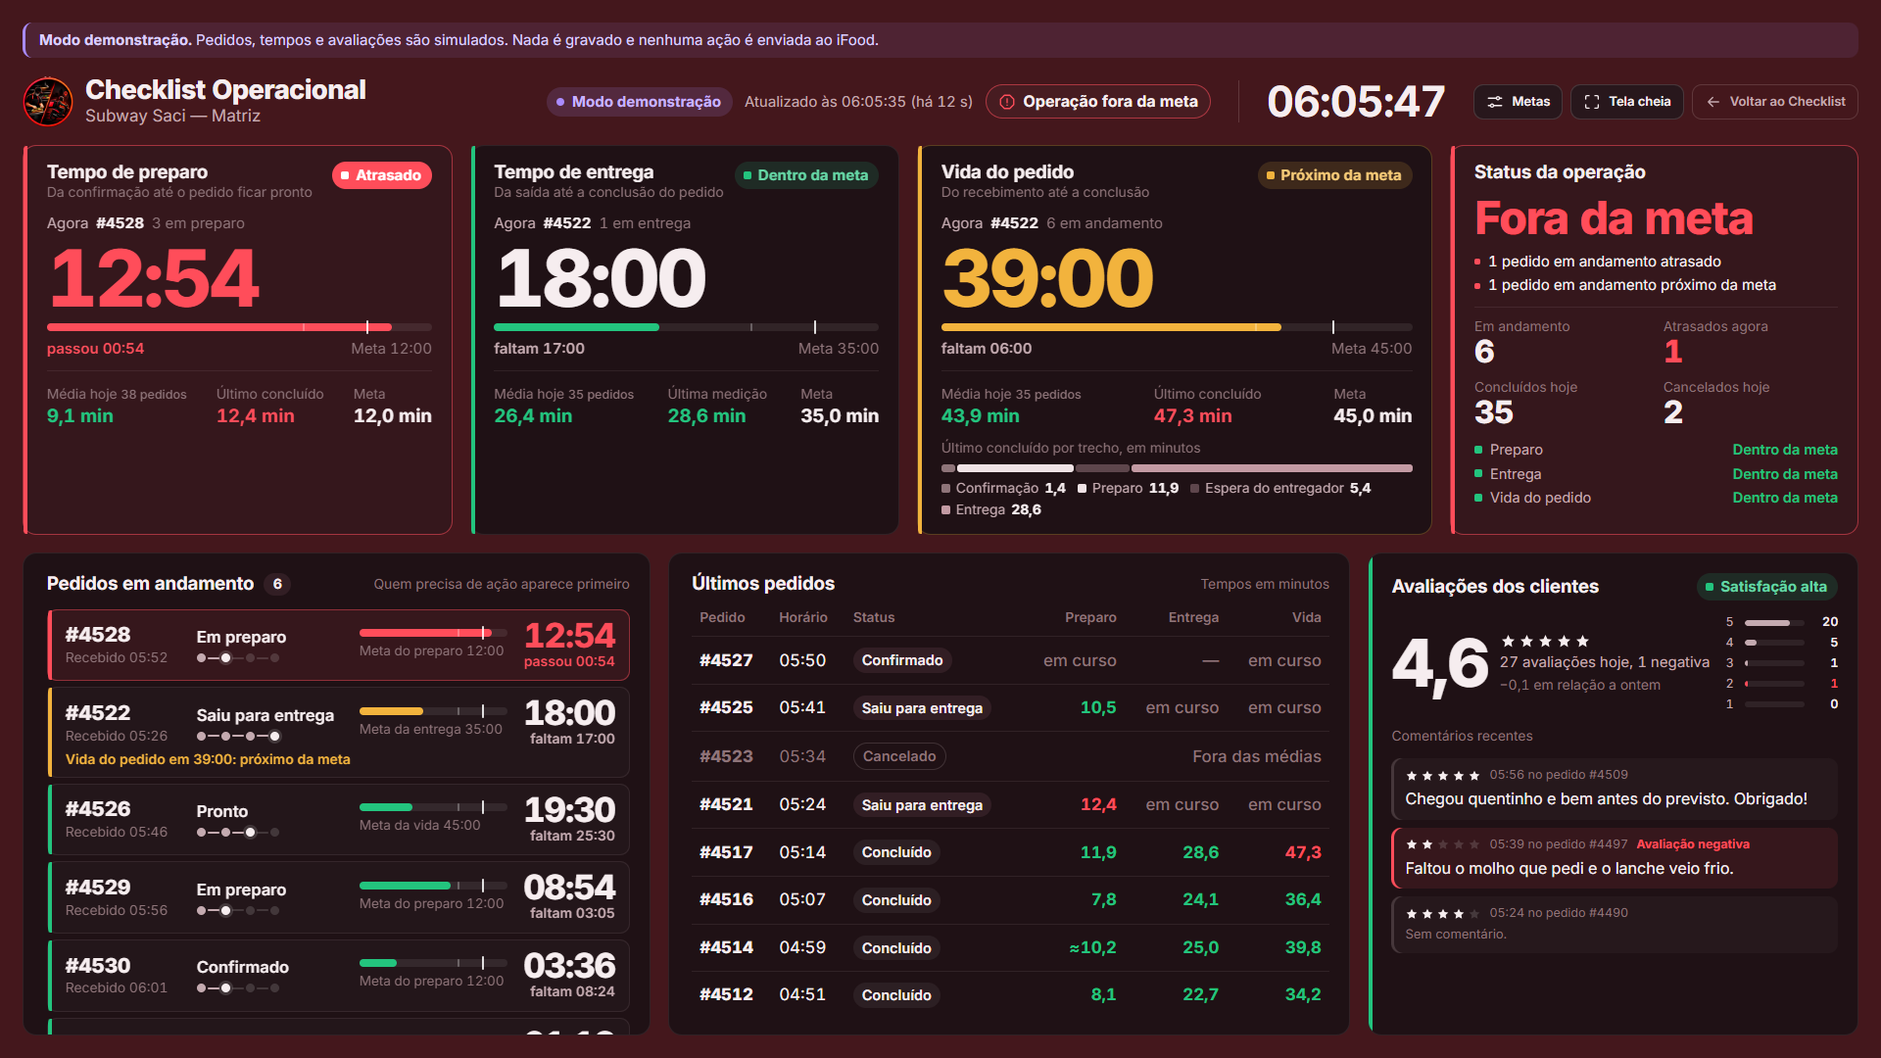
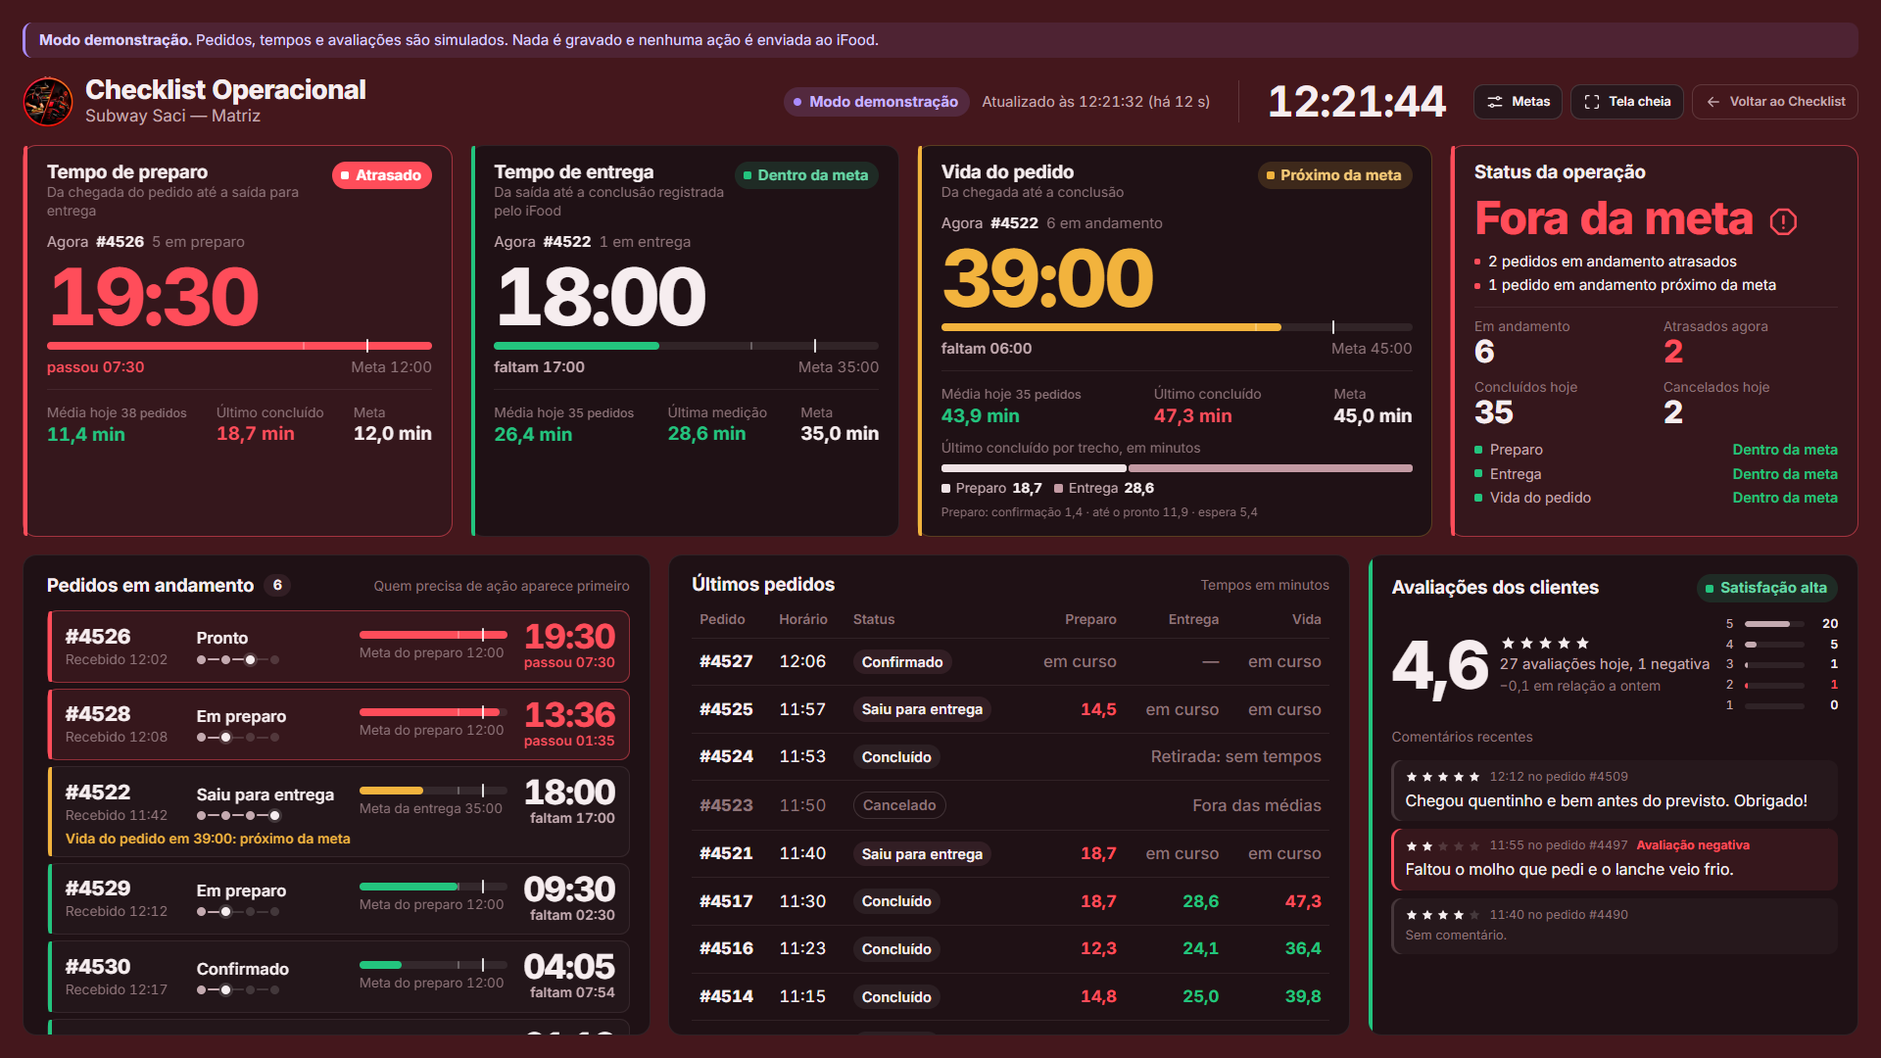
docs(checklist): relatório de entrega e capturas atualizados após o rebase
Numeração 127/128, régua "Etapa 2" da main, módulo checklist_operacional, resultados de teste no código rebaseado
(checkout LF), checklist de homologação das migrations e ordem de publicação. Capturas regeradas a partir da main atual.

diff --git a/docs/checklist-operacional-2-entrega.md b/docs/checklist-operacional-2-entrega.md
@@ -1,89 +1,92 @@
 # Checklist Operacional 2.0 — relatório de entrega
 
-> Branch `feat/checklist-operacional-2` (base `main` @ `8d32196`). **Nada foi commitado, nenhuma migration foi
-> aplicada em ambiente algum, nenhum merge ou deploy foi feito.** Auditoria e plano: `checklist-operacional-2-auditoria.md`.
-> Capturas: `docs/checklist-operacional-2/`.
+> Branch `feat/checklist-operacional-2`, rebaseada sobre a `main` atual (`origin/main` @ `eeeb1c7`, PR #52). **Nenhuma
+> migration foi aplicada em ambiente algum; nenhum merge ou deploy foi feito.** Auditoria e plano: `checklist-operacional-2-auditoria.md`.
+> Capturas: `docs/checklist-operacional-2/` (dados de demonstração e payload sintético; `04-tv-tom-verde-referencia` força o
+> nível só para mostrar a cor).
 
 ## 1. O que foi entregue
 
 | Fase | Entrega | Onde |
 |---|---|---|
-| 2 — Metas | Tabela por unidade com `versao`; histórico append-only (quem, quando, antes/depois, suporte); função atômica `checklist_metas_salvar` (compara a versão; conflito não grava nada). `GET/PUT /metas`, `GET /metas/historico`. Metas embutidas no `/resumo` (a TV lê sem rota nova). Evento `checklist_metas.atualizadas` só no tópico da unidade → TV, Tablet e Dashboard recarregam; reconexão/polling reconciliam. Diálogo grava no servidor, trata 409 (carrega o valor atual e pede revisão), falha mantém a última configuração válida; sem leitura do servidor o salvar fica bloqueado. | migration 120, `checklistOperacional.metas.js`, `service`/`controller`/`routes`, `checklistOperacional.js`, `checklistOperacionalDados.js`, `checklistOperacionalVisual.js` |
-| 3 — Fundo dinâmico | Fundo da área operacional (TV e Tablet) pelo status agregado **já existente** (`derivarStatusOperacao`: pior entre médias do dia, pedidos em andamento e alertas). Piora imediata; melhora só depois de 5 s estável (sem piscar). Selo no cabeçalho com texto + ícone. Transição de cor de 900 ms; sem transição com movimento reduzido. Cards e textos mantêm as superfícies e o contraste originais. | `checklistOperacionalFundo.js`, CSS |
-| 4 — Dashboard | Terceira opção na seleção. Filtros: unidade (seletor global), hoje/ontem/semana/mês/personalizado (≤ 92 dias), etapa. KPIs, evolução diária, pedidos por dia, demanda e atraso por horário, dia da semana, distribuição por status, desempenho por etapa, comparativo com período anterior equivalente (cortado no mesmo horário quando o período termina hoje), atrasos com evidências, metas aplicáveis, cobertura/qualidade, definições. Todo cálculo no backend. | `checklistOperacional.indicadores.js`, `.periodos.js`, `checklistOperacionalDashboard*.js`, `checklistOperacionalGraficos.js`, migration 121 |
-| 5 — Inteligência | 7 regras determinísticas com limiares e amostra mínima explícitos (concentração por horário, dias críticos, piora/melhora, preparo anormal, concentração por etapa, reincidência, desempenho contra a meta). Cada análise: fato, indicador+período, referência, ocorrências, evidências (pedidos/dias/horas), hipótese marcada como não comprovada, recomendação. Regras sem dado suficiente são listadas como "não avaliadas". Tool só-leitura `consultar_checklist_operacional` no Agente Crescer, com instrução para não estimar nem atribuir causa. | `checklistOperacional.analises.js`, `agente/tools/checklistOperacional.tool.js` |
-| 6 — Relatórios | PDF (impressão do navegador, mesmos componentes e SVG da tela) e Excel (backend, `xlsx`), ambos do mesmo payload e do filtro que gerou os números exibidos; escolha de seções (11). | `checklistOperacionalRelatorio.js`, `checklistOperacional.exportar.js` |
+| 2 — Metas | Tabela por unidade com `versao`; histórico append-only (quem, quando, antes/depois, suporte); função atômica `checklist_metas_salvar` (compara a versão; conflito não grava nada). `GET/PUT /metas`, `GET /metas/historico`. Metas embutidas no `/resumo` (a TV lê sem rota nova). Evento `checklist_metas.atualizadas` só no tópico da unidade → TV, Tablet e Dashboard recarregam; reconexão/polling reconciliam. Diálogo grava no servidor, trata 409 (carrega o valor atual e pede revisão), falha mantém a última configuração válida; sem ler as metas do servidor o salvar fica bloqueado. A referência p75 da `main` continua só preenchendo o formulário. | migration **127**, `checklistOperacional.metas.js`, `service`/`controller`/`routes`, `checklistOperacional.js`, `checklistOperacionalDados.js`, `checklistOperacionalVisual.js` |
+| 3 — Fundo dinâmico | Fundo da área operacional (TV e Tablet) pelo status agregado **já existente** (`derivarStatusOperacao`: pior entre médias do dia, pedidos em andamento e alertas). Piora imediata; melhora só depois de 5 s estável. Cor sólida na própria raiz (custo de pintura medido em Chrome real), transição de 900 ms, desligada com movimento reduzido. O status também aparece em texto (veredito do card "Status da operação") e ícone ao lado dele — sem altura nova (TV 1280×720 sem rolagem). | `checklistOperacionalFundo.js`, CSS |
+| 4 — Dashboard | Terceira opção na seleção. Filtros: unidade (seletor global), hoje/ontem/semana/mês/personalizado (≤ 92 dias), etapa. KPIs, evolução diária, pedidos por dia, demanda e atraso por horário, dia da semana, distribuição por status, desempenho por etapa, comparativo com o período anterior equivalente (cortado no mesmo horário quando o período termina hoje), atrasos com evidências, metas aplicáveis, cobertura/qualidade, definições. Mesmas medições do resumo ao vivo — régua **"Etapa 2" da `main`**: só DELIVERY; preparo = chegada (PLC) → despacho (DSP); entrega = DSP → conclusão registrada pelo iFood; vida = PLC → conclusão. | `checklistOperacional.indicadores.js`, `.periodos.js`, `checklistOperacionalDashboard*.js`, `checklistOperacionalGraficos.js`, migration **128** |
+| 5 — Inteligência | 7 regras determinísticas, com limiares e amostra mínima explícitos (concentração por horário, dias críticos, piora/melhora, preparo anormal, concentração por etapa, reincidência, desempenho contra a meta). Cada análise: fato, indicador+período, referência, ocorrências, evidências, hipótese marcada como não comprovada, recomendação. Regras sem dado suficiente aparecem como "não avaliadas". Tool só-leitura `consultar_checklist_operacional` no Agente Crescer (módulo `checklist_operacional`; aceita `ifood` na transição, a mesma régua do gate da API). | `checklistOperacional.analises.js`, `agente/tools/checklistOperacional.tool.js` |
+| 6 — Relatórios | PDF (impressão do navegador, mesmos componentes e SVG da tela) e Excel (backend, `xlsx`), do mesmo payload e do filtro que gerou os números exibidos; escolha de 11 seções. | `checklistOperacionalRelatorio.js`, `checklistOperacional.exportar.js` |
 
-**Regra metas × pedidos (documentada na tela):** a tela ao vivo reavalia na hora os pedidos em andamento pela meta
-nova. O Dashboard avalia cada pedido pela meta vigente **no recebimento** — mudar a meta nunca reescreve o passado.
-Pedido recebido antes da primeira meta salva fica "sem meta vigente" (fora do % dentro da meta, contado à parte).
+**Metas × pedidos:** a tela ao vivo reavalia na hora os pedidos em andamento pela meta nova. O Dashboard avalia cada pedido
+pela meta vigente **no recebimento** — mudar a meta nunca reescreve o passado. Pedido recebido antes da primeira meta salva
+fica "sem meta vigente" (fora do % dentro da meta, contado à parte).
 
-## 2. Migrations (não aplicadas)
+## 2. Migrations (NÃO aplicadas — homologar em PostgreSQL real)
+
+A `main` já ocupa 120–126 (Financeiro, módulo `checklist_operacional`, conexões iFood). As desta entrega são as próximas livres:
 
 | Arquivo | Conteúdo | Como aplicar |
 |---|---|---|
-| `120_checklist_metas.sql` | 2 tabelas + 4 funções; RLS sem policy; anon/authenticated sem privilégio; service_role só `select` + `execute` da função de escrita. 100% aditiva. | Transação única (`lock_timeout` 5 s). Rollback: `120_rollback.sql` (apaga o histórico de metas — exportar antes). |
-| `121_ifood_pedidos_indice_periodo.sql` | Índice `(organizacao_id, unidade_id, criado_em)` em `ifood_pedidos`. | `CONCURRENTLY`, **fora de transação** (o worker grava o tempo todo). Rollback: `121_rollback.sql`. |
+| `127_checklist_metas.sql` | 2 tabelas + 4 funções; RLS sem policy; anon/authenticated sem privilégio; service_role só `select` + `execute` da função de escrita. 100% aditiva. | Transação única (`lock_timeout` 5 s). Rollback: `127_rollback.sql` (apaga o histórico de metas — exportar antes). |
+| `128_ifood_pedidos_indice_periodo.sql` | Índice `(organizacao_id, unidade_id, criado_em)` em `ifood_pedidos`. | `CONCURRENTLY`, **fora de transação** (o worker grava o tempo todo). Rollback: `128_rollback.sql`. |
 
-Ordem segura: 120 e 121 (independentes) → deploy do backend → deploy do frontend. Sem a 120, o backend continua
-funcionando: o resumo mostra metas de exemplo marcadas como indisponíveis e o PUT responde 503 (`METAS_INDISPONIVEIS`).
+Sem a 127 o backend continua funcionando: o resumo mostra metas de exemplo marcadas como indisponíveis (salvar fica
+bloqueado na tela) e o PUT responde 503 `METAS_INDISPONIVEIS`. Sem a 128 o Dashboard funciona, mais lento em períodos longos.
+A numeração só é definitiva se 127/128 continuarem livres no merge.
 
 ## 3. Permissões
 
 | Ação | Quem |
 |---|---|
 | Ver TV/Tablet (resumo, inclui metas) | quem já via (`checklist.visualizar` ou `integracoes.ver`), inclusive o perfil de exibição |
-| Ver Dashboard, metas, exportar | idem, **exceto** o perfil de exibição (bloqueio por lista exata continua permitindo só o resumo) |
-| Alterar metas / ver histórico | `configuracoes.gerenciar` ou `integracoes.gerenciar` (organization_admin, unit_manager) — a mesma regra que a tela já usava para o botão "Metas" |
+| Ver Dashboard, metas, exportar | idem, **exceto** o perfil de exibição (o bloqueio por lista exata continua permitindo só o resumo) |
+| Alterar metas / ver histórico | `configuracoes.gerenciar` ou `integracoes.gerenciar` (organization_admin, unit_manager) — a régua que a tela já usava para o botão "Metas" |
 
-Nenhuma permissão nova foi criada (sessões abertas continuam válidas).
+Módulo: as rotas novas ficam sob o gate da `main` (`checklist_operacional` OU `ifood`). Nenhuma permissão nova.
 
-## 4. Testes executados
+## 4. Testes (código rebaseado; checkout com LF, como no Linux)
 
 | Suíte | Resultado |
 |---|---|
-| Backend completo (`node --test test/*.test.js`, env fictício) | 5340 testes: **5312 ok, 25 pulados, 3 falhas** na 1ª execução → 2 eram as listas de "migrations posteriores conhecidas" (120/121 registradas; agora passam). **1 falha pré-existente e intencional**: `performance-calc` › "distribuições recompõem…" (pendência de negócio em `central-performance-novos-clientes-impacto.md`). |
-| Backend novos | `checklist-operacional-2.test.js` (36) e catálogo do Agente — todos ok. |
+| Frontend completo (`node --test test/*.test.js`) | **1598: 1587 ok, 0 falhas, 11 pulados** (navegador). |
+| Backend completo (`node --test test/*.test.js`, env fictício) | 5586: 5546 ok, 25 pulados, **15 falhas — todas pré-existentes**: os mesmos arquivos falham igual na `main` limpa (comunicação/central de conversas, frota, financeiro/dominio, sessão/perfil, whatsapp-retry sem dependências do gateway) e a falha intencional `performance-calc` › "distribuições recompõem…" (regra de Novos Clientes — **não alterada**). |
+| Backend do escopo (Checklist + Agente) | **240/240**. |
 | Banco (`checklist-metas-migration-pg.test.js`) | **Não executado**: sem Postgres/`psql` nesta máquina (pulado, padrão do projeto). Rodar com `CHECKLIST_PERFIL_PG_URL` local. |
-| Frontend completo (`node --test test/*.test.js`) | 1531: **1520 ok, 0 falhas, 11 pulados** (navegador). |
-| Navegador real (TV/Tablet, Playwright + Chrome) | 40 testes. **Instáveis também na `main` limpa** nesta máquina (orçamento de ~360 ms de relógio real por passo): `main` falhou em 4 de 5 execuções seguidas. Na branch final, 3 execuções seguidas sem falha. |
+| Navegador real (Playwright + Chrome) | `checklistOperacionalModos` 40/40 e `checklistOperacionalUniversal` 7/7 (na 2ª rodada; a 1ª teve 1 falha intermitente de 403 que também ocorre na `main`); `perfilExibicao` 11/11 em duas rodadas. `renovacaoExibicao` › "17 h sem interação" falha nos dois lados (mesma asserção de tempo, `main` incluída). |
 
-Cobertura dos itens pedidos: persistência, sincronização (evento + resumo), edição simultânea (409; concorrência real
-no teste de banco), reconexão (resincronização → mesma consulta), isolamento por unidade, permissões, verde/amarelo/
-vermelho e fundo, acessibilidade/responsividade (estático + capturas sem rolagem horizontal em 390 px), indicadores,
-períodos e comparativos, exportação, dados ausentes, regressões TV/Tablet.
+O repositório não tem CI configurado (sem `.github/`).
 
 ## 5. Limitações
 
 1. Fuso único `America/Sao_Paulo` (não existe fuso por unidade).
-2. Entrega continua aproximada (DSP→CON); preparo sem "pronto" é aproximado — sinalizado nos números.
+2. Só pedidos de entrega entram nos tempos (régua da `main`); a retirada conta como pedido acompanhado, sem tempos.
 3. "Cumprimento dos itens do checklist": **indisponível** — a Central não registra itens de checklist.
 4. Histórico começa no primeiro pedido gravado pelo Events de cada unidade; nada antes disso é inferido.
-5. Não havia metas em `localStorage` para migrar (eram só memória da aba). A API aceita `origem: 'migracao_local'`
-   (só grava com `versao: 0`, nunca sobrescreve).
+5. Não havia metas em `localStorage` para migrar. A API aceita `origem: 'migracao_local'` (só grava com `versao: 0`).
 6. Período máximo de 92 dias e 60 000 pedidos por consulta (acima: 422 pedindo intervalo menor).
-7. A análise "aumento anormal de preparo" e as demais usam limiares fixos (`LIMIARES`); ajustá-los é decisão de negócio.
-8. Graphify (exigido no `CLAUDE.md`) não está instalado; `graphify update .` não foi executado.
+7. Limiares das análises fixos (`LIMIARES`); ajustá-los é decisão de negócio.
+8. Graphify (citado no `CLAUDE.md`) não está instalado; `graphify update .` não foi executado.
 
-## 6. Arquivos de usuário tocados
+## 6. Checklist de homologação das migrations (PostgreSQL real, fora de produção)
 
-`frontend/test/checklistOperacionalModos.test.js` já tinha alteração local não commitada (normalização de CRLF);
-esta entrega mudou **uma linha** dele (versão do CSS `v=4` → `v=5`). Os demais arquivos com alterações prévias
-(`backend/testes-seguros/`, `backend/package.json` etc.) não foram tocados.
+1. `CHECKLIST_PERFIL_PG_URL=postgresql://…@127.0.0.1:…/postgres node --experimental-vm-modules --test test/checklist-metas-migration-pg.test.js`
+   (schema real base + 068..128; idempotência; RLS/privilégios; versão/conflito; concorrência real; isolamento; append-only; rollback).
+2. Ambiente de teste (Supabase de integração), com backup: aplicar 127 numa transação e 128 `CONCURRENTLY`.
+3. Conferir: `relrowsecurity` ligado e 0 policies nas duas tabelas; `has_table_privilege` falso para anon/authenticated;
+   service_role só `select`; `has_function_privilege('service_role', 'checklist_metas_salvar(...)', 'execute')` verdadeiro;
+   `indisvalid` verdadeiro em `idx_ifood_pedidos_tenant_criado`.
+4. Duas abas na mesma unidade: salvar numa → a outra atualiza (com e sem Realtime); salvar nas duas com a mesma versão → a
+   segunda recebe o aviso de conflito; o histórico mostra as versões com antes/depois.
+5. Perfil de exibição: a TV mostra as metas salvas; `/dashboard` e `PUT /metas` devolvem 403. Unidade B não vê metas nem eventos da A.
+6. Dashboard: conferir 2–3 números contra uma consulta manual em `ifood_pedidos` de um dia conhecido; PDF e Excel do mesmo
+   filtro iguais à tela.
+7. Rollback ensaiado (`128_rollback.sql`, depois `127_rollback.sql`) e reaplicação.
 
-## 7. Homologação sugerida (antes de produção)
+## 7. Ordem recomendada para a publicação controlada
 
-1. Rodar `checklist-metas-migration-pg.test.js` contra um Postgres local.
-2. Aplicar 120 e 121 num ambiente de teste (Supabase de integração) e conferir: RLS/privilégios, índice válido.
-3. Duas abas/aparelhos na mesma unidade: salvar metas numa → a outra atualiza (com e sem Realtime); salvar nas duas
-   com a mesma versão → a segunda recebe o aviso de conflito.
-4. Perfil de exibição: TV mostra metas salvas; `/dashboard` e `PUT /metas` devolvem 403.
-5. Unidade B não vê metas nem eventos da unidade A.
-6. Dashboard: conferir 2–3 números contra uma consulta manual em `ifood_pedidos` de um dia conhecido.
-7. Gerar PDF e Excel do mesmo filtro e comparar com a tela.
-8. TV real (navegador da TV/stick): fundo trocando sem engasgo; movimento reduzido.
+1. Revisão do PR (Draft) e testes locais acima.
+2. Homologação das migrations (§6) em ambiente de teste.
+3. Produção, em janela, com backup: **127** (transação) → **128** (`CONCURRENTLY`) → conferências da §6.3.
+4. Merge → deploy do **backend** → deploy do **frontend** (manual no Render). Backend antes: o frontend novo sem o backend
+   novo mostra metas "indisponíveis" (salvar bloqueado), sem quebrar a TV.
+5. Uma unidade piloto: salvar metas, abrir TV/Tablet/Dashboard, conferir números; depois liberar às demais.
 
-## 8. Para publicar
-
-Revisar → commit → PR → CI → aplicar 120/121 (janela, backup) → merge → deploy backend → deploy frontend (manual no
-Render) → homologação acima. Cada passo depende de autorização explícita.
+Cada passo depende de autorização explícita.

diff --git a/docs/checklist-operacional-2-auditoria.md b/docs/checklist-operacional-2-auditoria.md
@@ -1,5 +1,11 @@
 # Checklist Operacional 2.0 — Fase 1: auditoria e plano técnico
 
+> **Atualização (rebase sobre a `main` atual):** a auditoria abaixo descreve a base original (`8d32196`). Depois dela a `main`
+> recebeu, entre outras: as migrations 120–126 (Financeiro e módulo próprio `checklist_operacional`, 123) e a régua "Etapa 2"
+> do Checklist (só DELIVERY; preparo = chegada PLC → despacho DSP; entrega = DSP → conclusão registrada pelo iFood;
+> vida = PLC → conclusão; sem medição "aproximada"). As migrations desta entrega passaram a ser **127** (metas) e **128**
+> (índice) e o Dashboard segue a régua da `main`. Ver `checklist-operacional-2-entrega.md`.
+>
 > Branch `feat/checklist-operacional-2` (a partir de `main` @ `8d32196`). Auditoria feita só no código e nas migrations;
 > nenhuma consulta à produção. O Graphify citado no `CLAUDE.md` não está instalado nesta máquina (`graphify-out/` não
 > existe), então a navegação foi feita direto nas fontes.
@@ -96,9 +102,9 @@ etapas em níveis diferentes, a cor de fundo é a da pior delas (a mesma regra q
 
 | Fase | Entrega |
 |---|---|
-| 2 | Migration `120_checklist_metas.sql`: `checklist_metas` (1 linha por unidade, `versao`), `checklist_metas_historico` (append-only), função `checklist_metas_salvar` (atômica, compara versão, grava histórico). `GET/PUT /checklist-operacional/metas`, `GET .../metas/historico`. Metas embutidas no `/resumo` (a TV já pode ler, sem rota nova para o perfil de exibição). Evento `checklist_metas.atualizadas` no tópico da unidade. |
+| 2 | Migration `127_checklist_metas.sql` (planejada como 120): `checklist_metas` (1 linha por unidade, `versao`), `checklist_metas_historico` (append-only), função `checklist_metas_salvar` (atômica, compara versão, grava histórico). `GET/PUT /checklist-operacional/metas`, `GET .../metas/historico`. Metas embutidas no `/resumo` (a TV já pode ler, sem rota nova para o perfil de exibição). Evento `checklist_metas.atualizadas` no tópico da unidade. |
 | 3 | Fundo da área operacional (TV/Tablet) pelo status agregado; transição suave, sem transição com movimento reduzido; selo de status com texto + ícone; histerese só na melhora (piora é imediata). |
-| 4 | Terceira opção "Dashboard Operacional"; `GET /checklist-operacional/dashboard` (período, etapa, comparativo); indicadores calculados no backend; gráficos SVG. Migration `121` (índice por período, `CONCURRENTLY`). |
+| 4 | Terceira opção "Dashboard Operacional"; `GET /checklist-operacional/dashboard` (período, etapa, comparativo); indicadores calculados no backend; gráficos SVG. Migration `128` (planejada como 121; índice por período, `CONCURRENTLY`). |
 | 5 | Motor determinístico de análises (`checklistOperacional.analises.js`) — fato / hipótese / recomendação separados, com evidências. Tool só-leitura no Agente Crescer. |
 | 6 | PDF (HTML + impressão) e Excel (`GET .../dashboard/exportar.xlsx`) a partir do **mesmo** payload do dashboard, com seleção de seções. |
 | 8 | Testes `node:test` (backend e frontend). |
